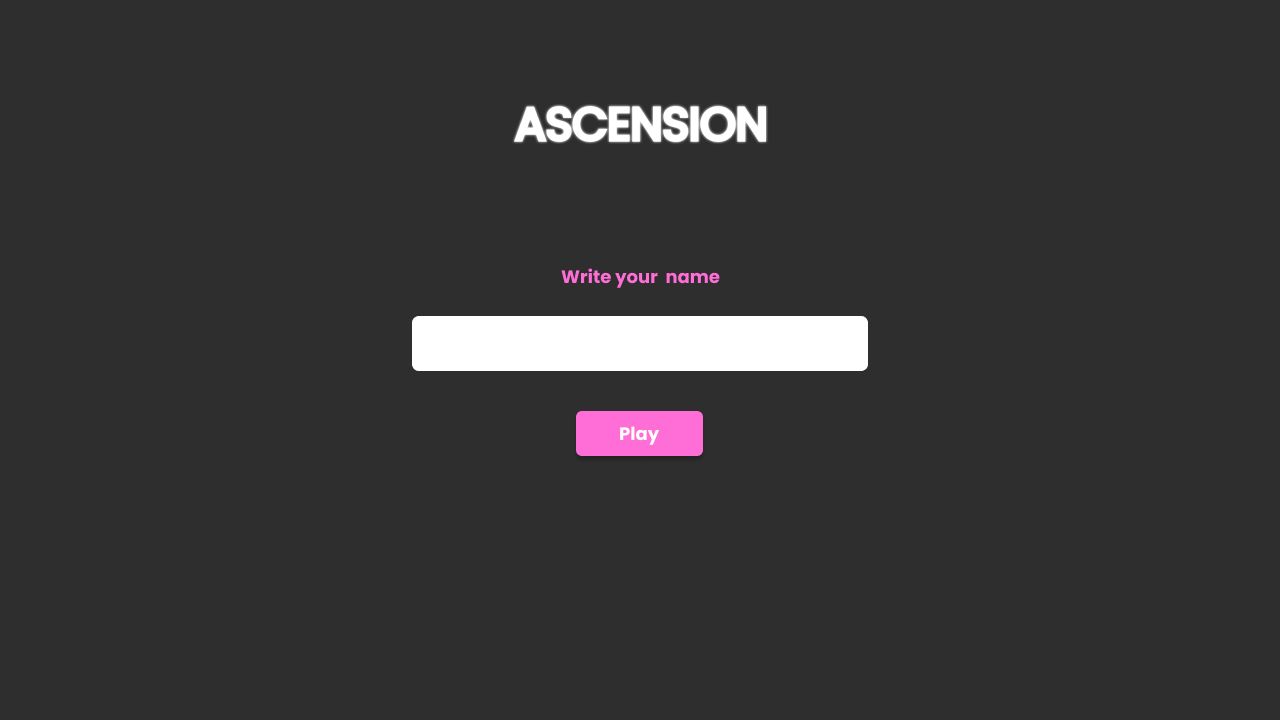
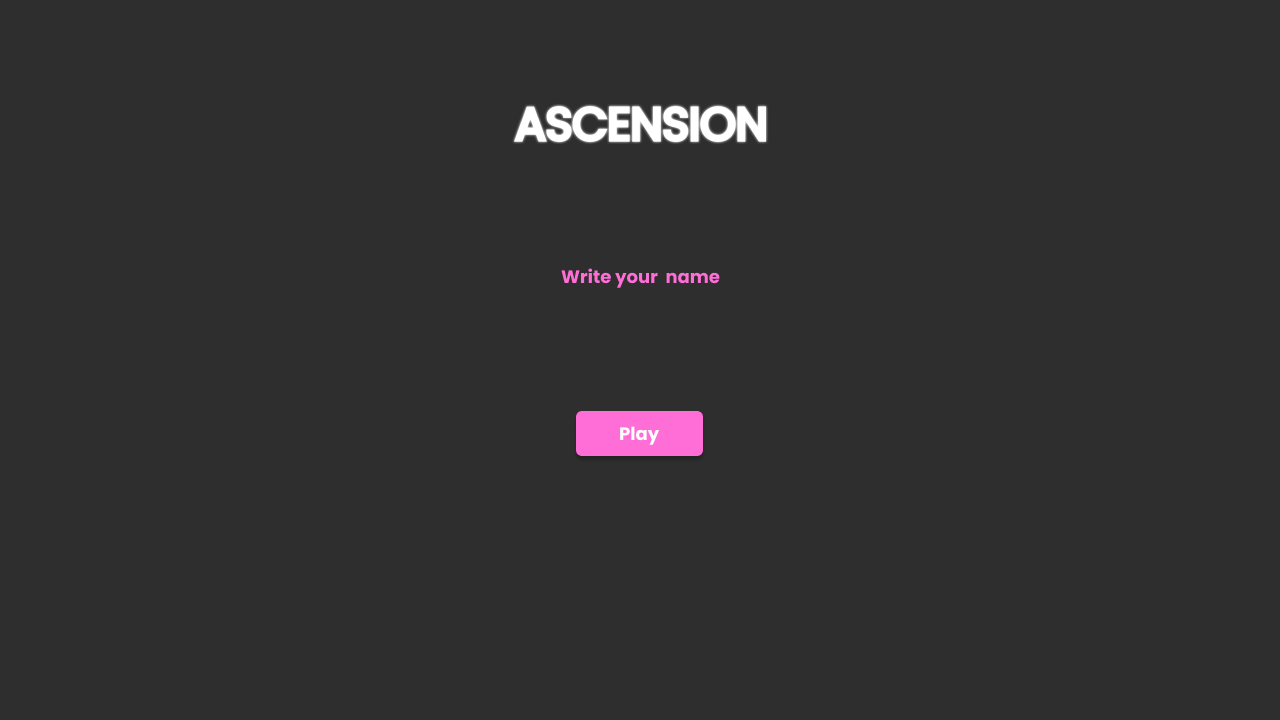
Inputs

Changed region(s): [[0.3125, 0.4278, 0.6875, 0.5194]]

diff --git a/src/view/Main.java b/src/view/Main.java
@@ -1,5 +1,6 @@
 package view;
 
+import java.awt.Button;
 import java.io.File;
 import java.io.FileInputStream;
 import java.io.InputStream;
@@ -11,6 +12,7 @@ import javax.swing.JOptionPane;
 import model.Enemy1;
 import model.Enemy2;
 import model.Enemy3;
+import model.Inputs;
 import model.MainCharacter;
 import model.Music;
 import model.Platform;
@@ -54,6 +56,11 @@ public class Main extends PApplet {
 	Enemy2 demon;
 	Enemy3 eye;
 	
+	
+	Inputs input;
+	
+	String name;
+	
 	int screen;
 	
 	public void settings () {
@@ -62,7 +69,10 @@ public class Main extends PApplet {
 	}
 	
 	public void setup () {
-		
+		//inputs
+		input = new Inputs(width/2+250, (320), -500, 50, 100, this);
+	
+		name = "";
 		//Scenarios
 		scenario1 = loadImage("./data/scenario1.png");
 		scenario2 = loadImage("./data/scenario2.png");
@@ -123,13 +133,17 @@ public class Main extends PApplet {
 	
 	public void draw () {
 		background(46,46,46);
-		screen = 3;
+		//screen = 3;
 		switch(screen) {
 	
 		// Screen where you write your name
 		case 0:
 			background(46,46,46);
 			image(register, 0, 0);
+			input.draw();
+			fill(0);
+			textSize(14);
+			text(name, 419,340);
 		break;
 	
 		//Instruction screen
@@ -154,6 +168,7 @@ public class Main extends PApplet {
 			demon.run();
 			eye.draw();
 			eye.move();
+			
 		break;
 		
 		//Game Screen second level
@@ -214,7 +229,6 @@ public class Main extends PApplet {
 	public void MoveScenario(int offset){
 	
 		switch(screen) {
-		
 		case 2:
 			scen1X -= offset;
 			for (int i = 0; i < platformsRed.size(); i++) {
@@ -240,6 +254,9 @@ public class Main extends PApplet {
 	}
 	
 	public void keyPressed() {
+		
+		input.writeText(key);
+		
 		anzu.move(keyCode, platformsRed);
 		anzu.move(keyCode, platformsRose);
 		anzu.move(keyCode, platformsBlue);
@@ -249,17 +266,22 @@ public class Main extends PApplet {
 		}
 	}
 	
-	public void validatePlatformColision () {
-		for (int i = 0; i < platformNames.length; i++) {
+	/*public void validatePlatformColision () {
+		for (int i = 0; i < platformsBlue.size(); i++) {
 			
 		}
-	}
+	}*/
 	
 	public void mousePressed() {
 		switch(screen) {
 		
 		// Screen where you write your name
 		case 0:
+			input.setFocus();
+			/*if() {
+				System.out.println(input.getText());
+			}*/
+			
 			if (mouseX > 572 && mouseX < 699 && mouseY > 407 && mouseY < 452) {
 				screen = 1;
 			}
